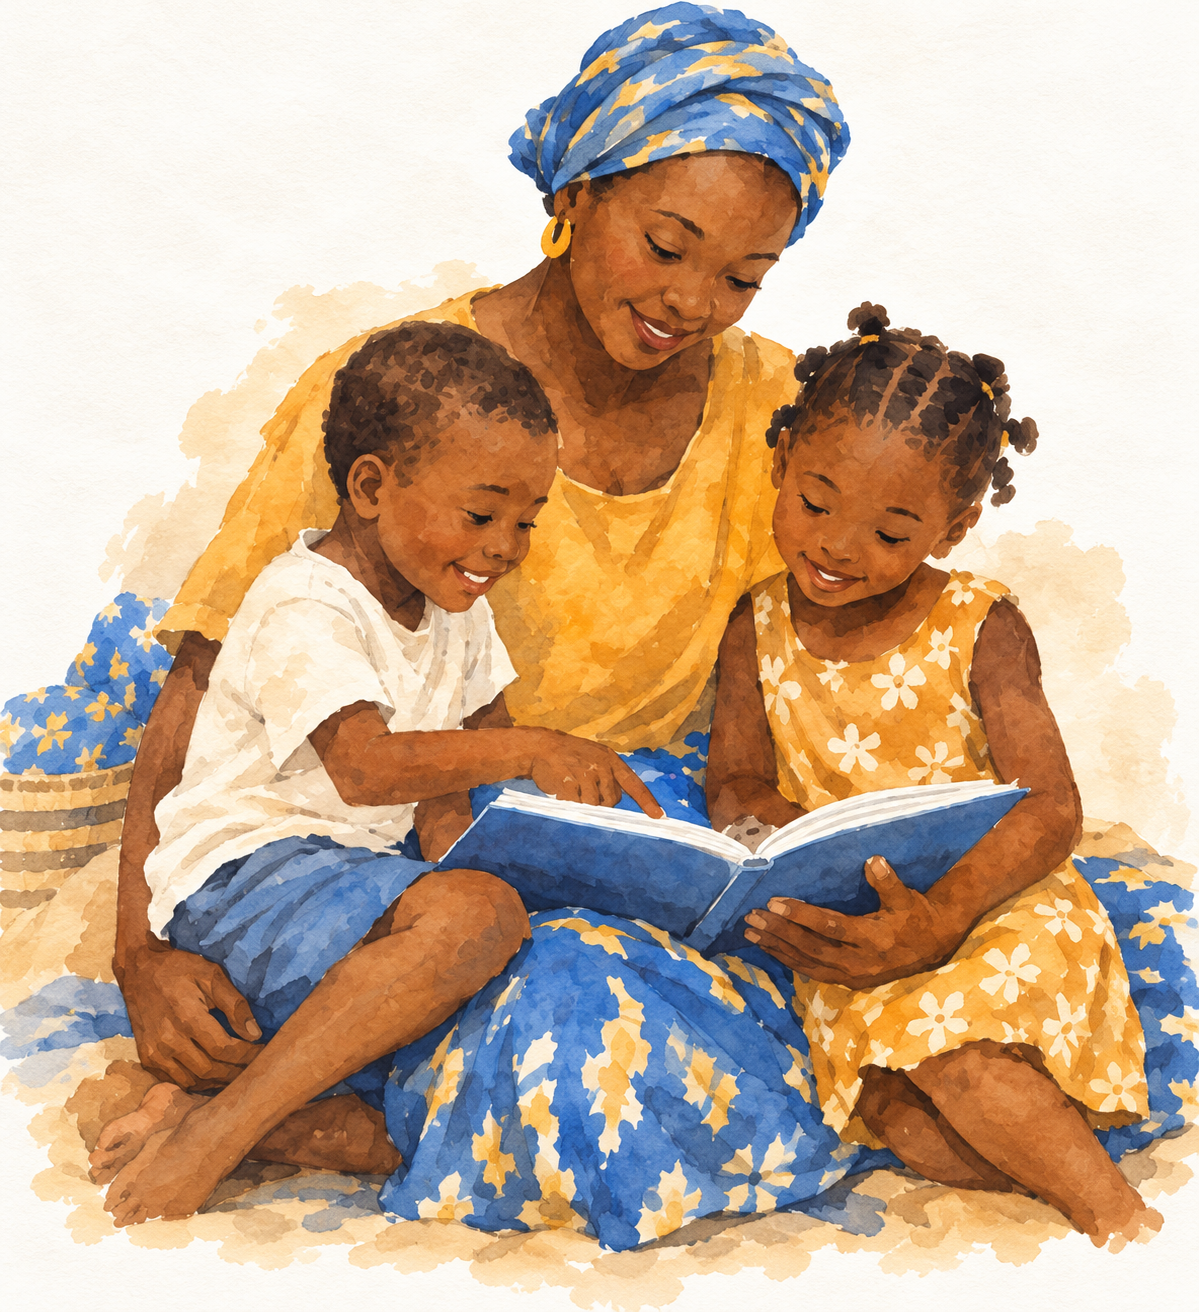
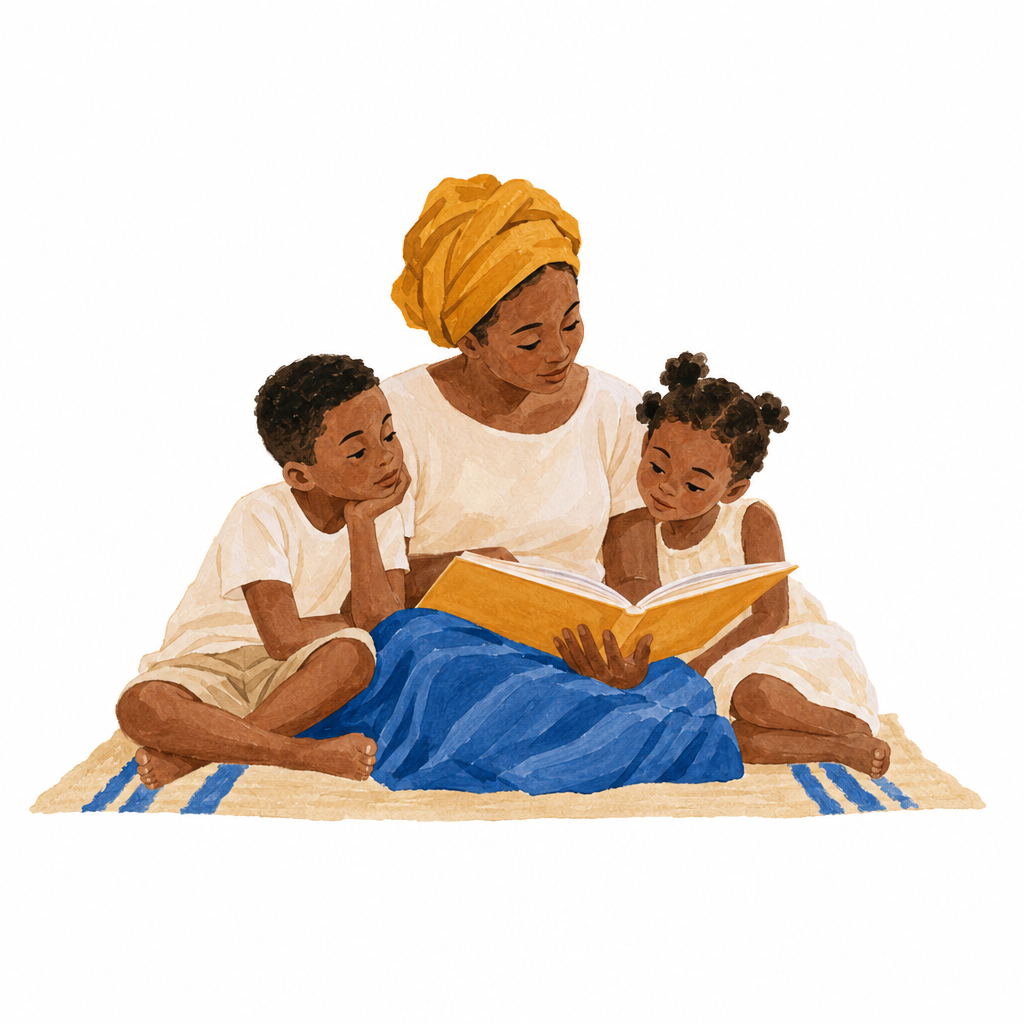
feat(image-generator): platform formats and new showcase images
Add 4:5 for the Instagram feed and label every format with the
platforms it suits. Regenerate the showcase images in the new reference
style and let the format and country selects wrap on phones.

diff --git a/image-generator/src/app/generator-form.tsx b/image-generator/src/app/generator-form.tsx
@@ -150,33 +150,38 @@ export const GeneratorForm = ({ children }: { children: ReactNode }) => {
 							/>
 						</div>
 						<div className="flex w-full flex-wrap items-center justify-between gap-2">
-							<div className="flex items-center gap-2">
+							<div className="flex flex-wrap items-center gap-2">
 								<AddMenu label="Add attachment" disabled={isPending}>
 									<DropdownMenuItem onSelect={() => referenceInputRef.current?.click()}>
 										<Upload aria-hidden="true" />
 										Upload Reference Image
 									</DropdownMenuItem>
 								</AddMenu>
-								<AspectRatioSelect
-									items={IMAGE_FORMATS}
-									label="Image format"
-									name="aspectRatio"
-									value={aspectRatio}
-									onValueChange={setAspectRatio}
-									disabled={isPending}
-								/>
-								<Select name="country" value={country} onValueChange={setCountry} disabled={isPending}>
-									<SelectTrigger size="sm" aria-label="Country">
-										<SelectValue />
-									</SelectTrigger>
-									<SelectContent>
-										{COUNTRIES.map((item) => (
-											<SelectItem key={item.value} value={item.value}>
-												{item.label}
-											</SelectItem>
-										))}
-									</SelectContent>
-								</Select>
+								{/* Wrappers size the full-width triggers to their content so the row can wrap on phones. */}
+								<div>
+									<AspectRatioSelect
+										items={IMAGE_FORMATS}
+										label="Image format"
+										name="aspectRatio"
+										value={aspectRatio}
+										onValueChange={setAspectRatio}
+										disabled={isPending}
+									/>
+								</div>
+								<div>
+									<Select name="country" value={country} onValueChange={setCountry} disabled={isPending}>
+										<SelectTrigger size="sm" aria-label="Country">
+											<SelectValue />
+										</SelectTrigger>
+										<SelectContent>
+											{COUNTRIES.map((item) => (
+												<SelectItem key={item.value} value={item.value}>
+													{item.label}
+												</SelectItem>
+											))}
+										</SelectContent>
+									</Select>
+								</div>
 							</div>
 							<Button type="submit" size="md" disabled={isPending || prompt.trim() === ''}>
 								<span>Generate</span>

diff --git a/image-generator/src/lib/image-formats.ts b/image-generator/src/lib/image-formats.ts
@@ -1,10 +1,13 @@
+// Labels name the platforms each format suits, short enough to fit the select on phones.
+// Sizes are multiples of 16 that gpt-image returns exactly.
 export const IMAGE_FORMATS = [
-	{ value: '1:1', label: 'Square', width: 1024, height: 1024 },
-	{ value: '16:9', label: 'Widescreen', width: 1536, height: 864 },
-	{ value: '9:16', label: 'Portrait', width: 864, height: 1536 },
-	{ value: '4:3', label: 'Landscape', width: 1344, height: 1008 },
-	{ value: '3:4', label: 'Portrait', width: 1008, height: 1344 },
-	{ value: '3:2', label: 'Photography', width: 1536, height: 1024 },
+	{ value: '1:1', label: 'Instagram, LinkedIn', width: 1024, height: 1024 },
+	{ value: '4:5', label: 'Instagram feed', width: 1024, height: 1280 },
+	{ value: '9:16', label: 'Stories, Reels', width: 864, height: 1536 },
+	{ value: '16:9', label: 'Website, YouTube', width: 1536, height: 864 },
+	{ value: '4:3', label: 'Slides', width: 1344, height: 1008 },
+	{ value: '3:2', label: 'Newsletter, blog', width: 1536, height: 1024 },
+	{ value: '3:4', label: 'Print, flyer', width: 1008, height: 1344 },
 ] satisfies { value: `${number}:${number}`; label: string; width: number; height: number }[];
 
 export const DEFAULT_IMAGE_FORMAT = IMAGE_FORMATS[0];

diff --git a/image-generator/src/app/page.tsx b/image-generator/src/app/page.tsx
@@ -18,10 +18,10 @@ export default function Page() {
 					<div className="mt-10 w-full sm:mt-14">
 						<ImageShowcase
 							images={[
-								{ src: '/images/showcase/planting.png', alt: 'A family planting a seedling together' },
+								{ src: '/images/showcase/planting.png', alt: 'A father and his son planting a seedling together' },
 								{ src: '/images/showcase/children-running.png', alt: 'Children running through their village' },
 								{ src: '/images/showcase/family-reading.png', alt: 'A mother reading with two children' },
-								{ src: '/images/showcase/sunset.png', alt: 'A family watching the sunset by a lake' },
+								{ src: '/images/showcase/shop.png', alt: 'An older man checking a message on his phone outside his shop' },
 							]}
 						/>
 					</div>
